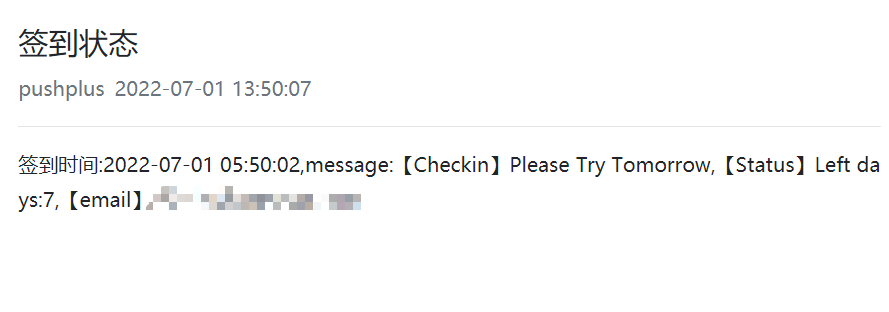
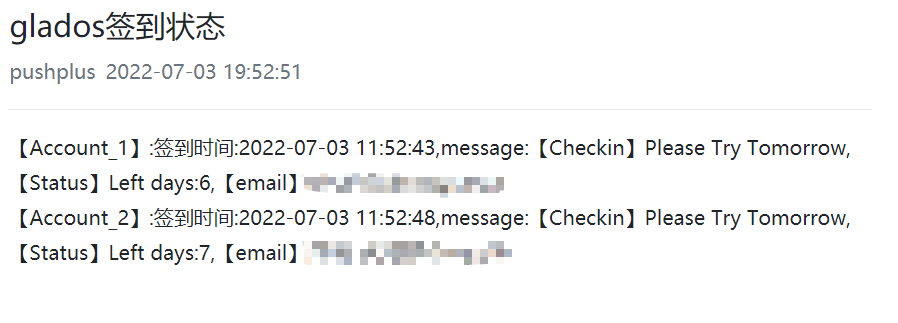
update README.md

Changed region(s): [[0.0, 0.4038, 1.0, 0.8365], [0.0, 0.0288, 0.3645, 0.3173]]

diff --git a/README.md b/README.md
@@ -63,13 +63,9 @@ GLaDOS automatic check-in bypassing CloudFlare using github action
   <img src="imgs/pushplus_token.png" />
 </p>
 
-- 推送消息略有延迟，但是影响不大，每个账号发送一条通知消息
+- 推送消息详情,所有的账号签到状态均在一个推送通知中显示
 
-<p align="center">
-  <img src="imgs/pushplus_message.png" />
-</p>
-
-- 推送消息详情
+#### 为保证隐私安全，在工作流日志不输出账号的信息，在推送消息中将推送账号邮箱，便于查看每个账号是否签到成功
 
 <p align="center">
   <img src="imgs/pushplus_message_info.png" />
